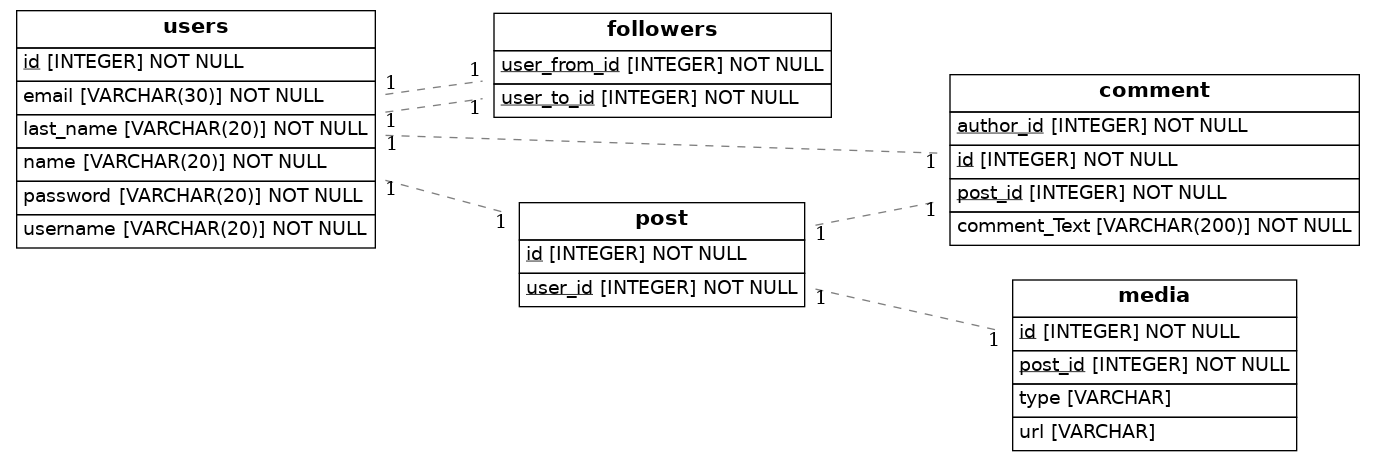
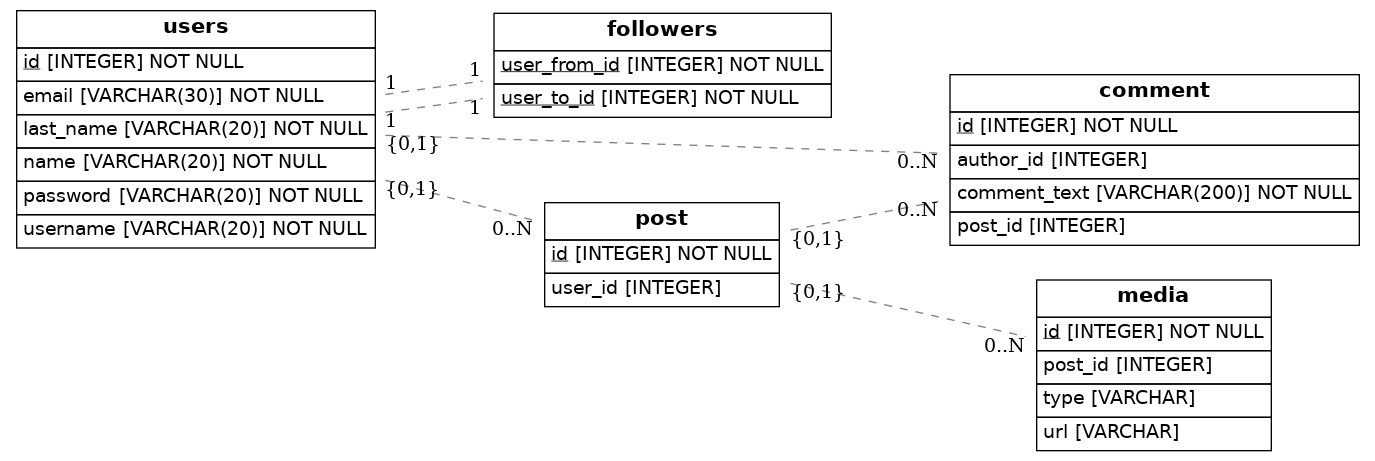
cambios

diff --git a/src/models.py b/src/models.py
@@ -29,15 +29,15 @@ class Followers(Base):
 class Comment(Base):
     __tablename__ = 'comment'
     id = Column(Integer, primary_key = True)
-    comment_Text = Column(String(200), nullable=False)
-    author_id = Column(Integer, ForeignKey('users.id'), primary_key=True)
-    post_id = Column(Integer, ForeignKey('post.id'), primary_key=True)
+    comment_text = Column(String(200), nullable=False)
+    author_id = Column(Integer, ForeignKey('users.id'))
+    post_id = Column(Integer, ForeignKey('post.id'))
     users = relationship("Users")    
 
 class Post(Base):
     __tablename__ ='post'
     id = Column(Integer, primary_key = True)
-    user_id = Column(Integer,ForeignKey('users.id'), primary_key=True)
+    user_id = Column(Integer,ForeignKey('users.id'))
     users = relationship("Users")
 
 class Media(Base):
@@ -45,7 +45,7 @@ class Media(Base):
     id = Column(Integer, primary_key = True)
     type = Column(String)
     url = Column(String)
-    post_id = Column(Integer, ForeignKey('post.id'), primary_key=True)
+    post_id = Column(Integer, ForeignKey('post.id'))
     users = relationship("Users")
     
 
